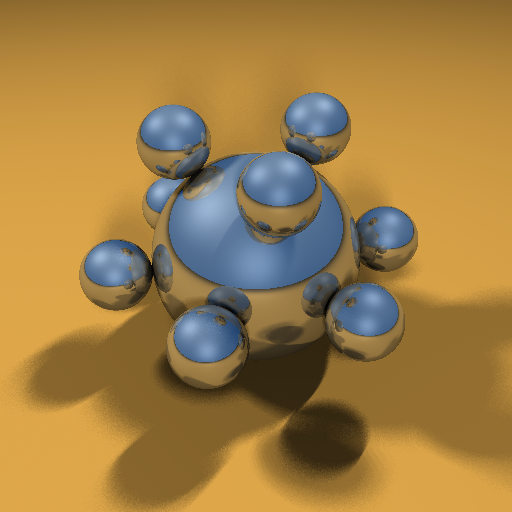
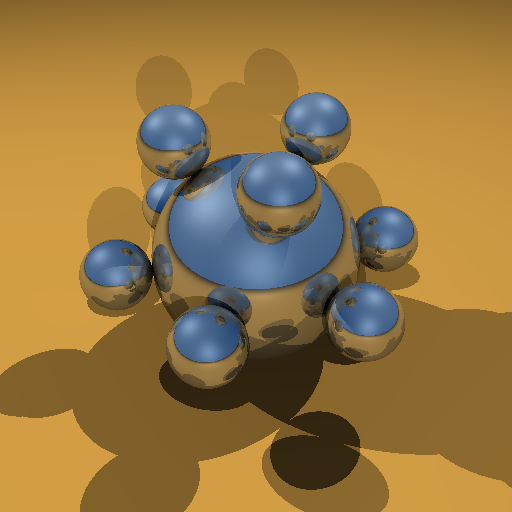
Nothing much

diff --git a/lab01/main.cpp b/lab01/main.cpp
@@ -525,7 +525,7 @@ Color getDiffuseNSpecular(Ray shadow_ray, Material* material, Vector hit_ray_dir
 Color rayTracing(Ray ray, int depth, float ior_i);
 
 Color getReflection(Vector normal_vec, float cos_theta_i, Vector rev_ray_dir, Vector hit_point,
-	Material* material, int depth, float ior_i, float x) {
+	Material* material, int depth, float ior_i) {
 
 	Vector refl_ray_dir = (normal_vec * cos_theta_i * 2 - rev_ray_dir);
 	float roughness = material->GetRoughness();
@@ -537,7 +537,7 @@ Color getReflection(Vector normal_vec, float cos_theta_i, Vector rev_ray_dir, Ve
 		// Anti-aliasing already shoots multiple rays,
 		// so we only need to shoot more than one here
 		// if anti-aliasing is deactivated
-		int sqrt_num_samples = (spp == 0) ? 4 : 1;
+		int sqrt_num_samples = (spp == 0) ? 2 : 1;
 		Vector mod_refl_ray_dir;
 
 		for (int p = 0; p < sqrt_num_samples; p++) {
@@ -588,8 +588,6 @@ Color rayTracing(Ray ray, int depth, float ior_i) // index of refraction of medi
 		hit_point = ray.origin + ray.direction * shortest_hit_dist;
 	}
 
-	
-
 	if (shortest_hit_object == nullptr)
 		return scene->GetBackgroundColor();
 
@@ -618,7 +616,7 @@ Color rayTracing(Ray ray, int depth, float ior_i) // index of refraction of medi
 					float e = rand_float();
 					
 					//WARNING: added random variation as in anti-aliasing jittering
-					Vector light_position = Vector(light->position.x + (w + e) * (light->width / sqrt(light->spl)), light->position.y, light->position.z + (h + e) * (light->height / sqrt(light->spl)));
+					Vector light_position = Vector(light->position.x + (w + e) * (light->width / sqrt_spl), light->position.y, light->position.z + (h + e) * (light->height / sqrt_spl));
 					light_dir = (light_position - hit_point).normalize();
 
 					float light_normal_dot_product = light_dir * normal_vec;
@@ -668,7 +666,7 @@ Color rayTracing(Ray ray, int depth, float ior_i) // index of refraction of medi
 
 	// TODO: Execute if has diffuse?
 	if (material->GetTransmittance() == 0)
-		return colour + getReflection(normal_vec, cos_theta_i, rev_ray_dir, refl_hit_point, material, depth, ior_i, shortest_hit_dist);
+		return colour + getReflection(normal_vec, cos_theta_i, rev_ray_dir, refl_hit_point, material, depth, ior_i);
 
 	//-----------------------------Dielectric (reflection + refraction)--------------------------
 
@@ -683,7 +681,7 @@ Color rayTracing(Ray ray, int depth, float ior_i) // index of refraction of medi
 
 	//Total Reflection
 	if (sin_theta_t > 1)
-		return colour + getReflection(normal_vec, cos_theta_i, rev_ray_dir, refl_hit_point, material, depth, ior_i, shortest_hit_dist);
+		return colour + getReflection(normal_vec, cos_theta_i, rev_ray_dir, refl_hit_point, material, depth, ior_i);
 
 	float cos_theta_t = sqrt(1 - pow(sin_theta_t, 2));
 
@@ -758,7 +756,6 @@ void renderScene()
 					Ray ray = camera->PrimaryRay(pixel_sample); // function from camera.h
 					color = rayTracing(ray, 1, 1.0);
 					//printf("FINAL: %f, %f, %f\n", color.r(), color.g(), color.b());
-					color = color.clamp();
 				}
 				else { // Anti-aliasing => Average each ray's colour
 					for (int p = 0; p < sqrt_spp; p++) {
@@ -773,7 +770,6 @@ void renderScene()
 					}
 
 					color = color * (1 / pow(sqrt_spp, 2));
-					color = color.clamp();
 				}
 			}
 			else { // Add depth of field
@@ -789,9 +785,9 @@ void renderScene()
 				// Average each ray's colour
 				for (int p = 0; p < sqrt_spp_dof; p++) {
 					for (int q = 0; q < sqrt_spp_dof; q++) {
-						lens_sample = rand_in_unit_circle(p, sqrt_spp_dof) * aperture;
-						lens_sample.x /= camera->GetResX();
-						lens_sample.y /= camera->GetResY();
+						lens_sample = rand_in_unit_circle(p * sqrt_spp_dof + q, sqrt_spp_dof) * aperture;
+						lens_sample.x /= RES_X;
+						lens_sample.y /= RES_Y;
 						if (sqrt_spp != 0) { // Anti-aliasing => Each pixel sample is different
 							pixel_sample.x = x + get_rand(p, p + 1) / sqrt_spp_dof;
 							pixel_sample.y = y + get_rand(q, q + 1) / sqrt_spp_dof;
@@ -805,8 +801,8 @@ void renderScene()
 				}
 
 				color = color * (1 / pow(sqrt_spp_dof, 2));
-				color = color.clamp();
 			}
+			color = color.clamp();
 			
 			img_Data[counter++] = u8fromfloat((float)color.r());
 			img_Data[counter++] = u8fromfloat((float)color.g());

diff --git a/lab01/scene.cpp b/lab01/scene.cpp
@@ -201,16 +201,13 @@ bool aaBox::intercepts(Ray& ray, float& t)
 	double a = 1.0 / ray.direction.x;
 
 	if (a >= 0) {
-		//printf("CASE 2, a: %f, ray.direction.x = %f ", a, ray.direction.x);
 		tx_min = (min.x - ray.origin.x) * a;
 		tx_max = (max.x - ray.origin.x) * a;
 	}
 	else {
-		//printf("CASE 3, a: %f, ray.direction.x = %f ", a, ray.direction.x);
 		tx_min = (max.x - ray.origin.x) * a;
 		tx_max = (min.x - ray.origin.x) * a;
 	}
-	//printf("tx_min = %f, tx_max = %f\n", tx_min, tx_max);
 
 	double b = 1.0 / ray.direction.y;
 	if (b >= 0) {
@@ -221,7 +218,6 @@ bool aaBox::intercepts(Ray& ray, float& t)
 		ty_min = (max.y - ray.origin.y) * b;
 		ty_max = (min.y - ray.origin.y) * b;
 	}
-	//printf("ty_min = %f, ty_max = %f\n", ty_min, ty_max);
 
 	double c = 1.0 / ray.direction.z;
 	if (c >= 0) {
@@ -232,7 +228,6 @@ bool aaBox::intercepts(Ray& ray, float& t)
 		tz_min = (max.z - ray.origin.z) * c;
 		tz_max = (min.z - ray.origin.z) * c;
 	}
-	//printf("tz_min = %f, tz_max = %f\n", tz_min, tz_max);
 
 
 	float tE, tL; //entering and leaving t values 
@@ -279,10 +274,10 @@ bool aaBox::intercepts(Ray& ray, float& t)
 			t = tL; // ray hits inside surface
 			Normal = face_out;
 		}
-		//printf("t = %f, normal is %f, %f, %f\n", t, Normal.x, Normal.y, Normal.z);
+
 		return true;
 	}
-	//printf("RETURNED FALSE\n");
+
 	return false;
 }
 
